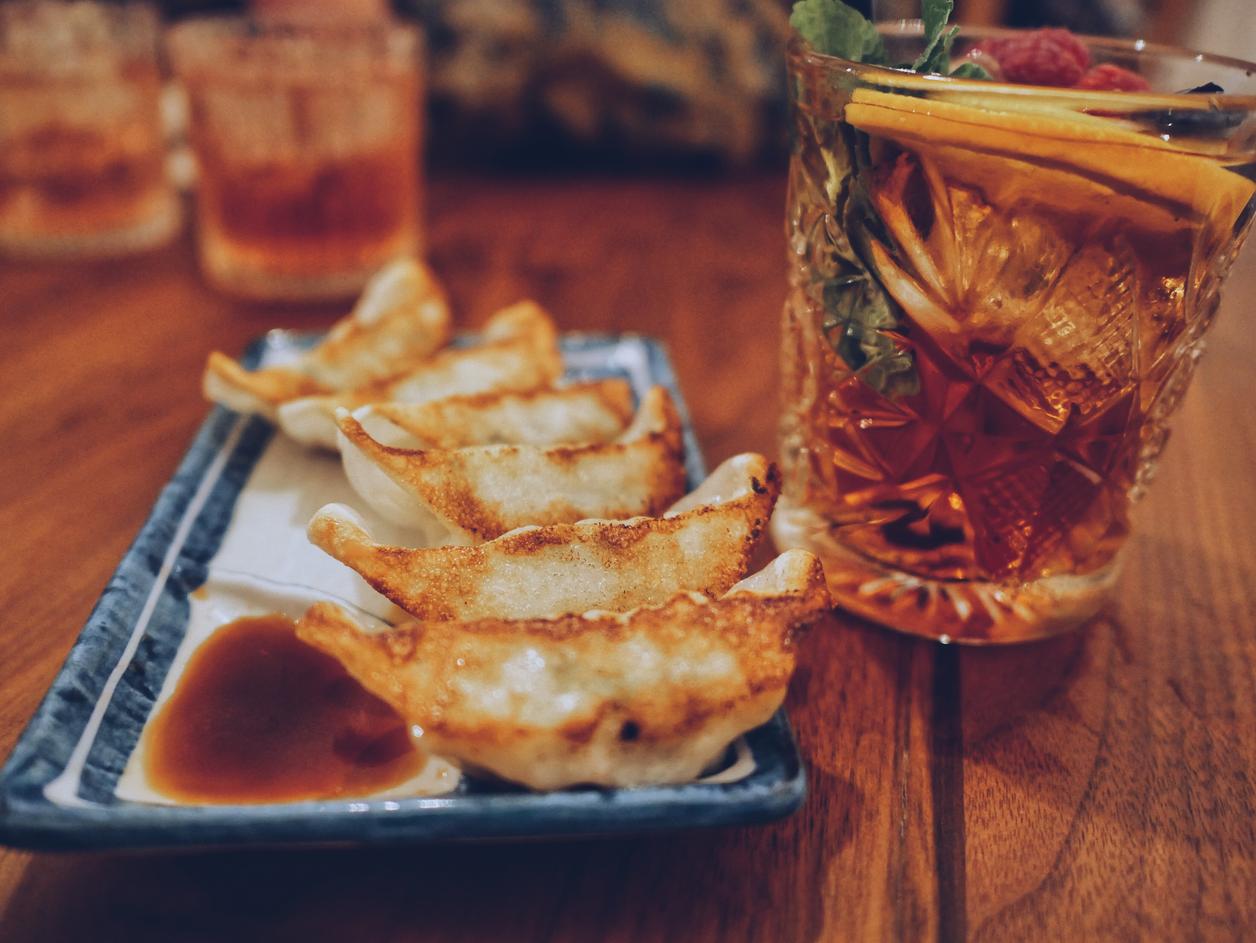
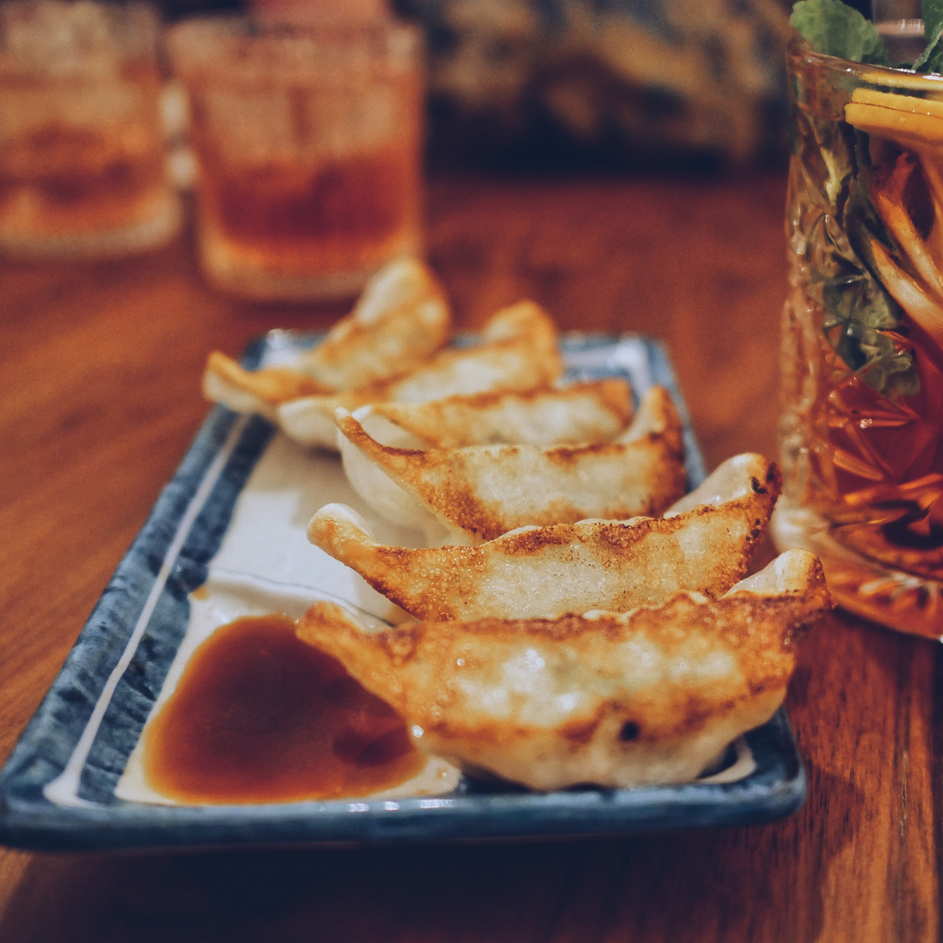
PP

diff --git a/ProyectoPersonal/indexpp.html b/ProyectoPersonal/indexpp.html
@@ -68,36 +68,41 @@
     <main>
         <!-- EL NAVEGADOR SE TIENE QUE FUSIONAR CON EL CARROUSEL Y CUANDO SCROLLEAS HACÍA ABAJO YA SE DESPEGA -->
         <!-- Galería de imágenes CARRUSEL DE IMAGENES DE FONDO -->
-        <div class="carrousel">
-            
-            <ol class="listaImagenes">
-                
-                <li><img src="img/ArrozConCarne.jpg"></li>
-                <li><img src="img/BrochetaDeLangostinosyArroz.jpg"></li>
-                <li><img src="img/BurritoPollo.jpg"></li>
-                <li><img src="img/CaliforniaRoll.jpg"></li>
-                <li><img src="img/CarneAlaBrasa.jpg"></li>
-                <li><img src="img/CevicheMixto.jpg"></li>
-                <li><img src="img/Cocinero.jpg"></li>
-                <li><img src="img/GyozaFrita.jpg"></li>
-                <li><img src="img/MakideSalmon.jpg"></li>
-                <li><img src="img/Mesa.jpg"></li>
-                <li><img src="img/MesaConComida.jpg"></li>
-                <li><img src="img/MesaConGente.jpg"></li>
-                <li><img src="img/Nachos.jpg"></li>
-                <li> <img src="img/PadThaiMarisco.jpg"></li>
-                <li><img src="img/PadThaiTernera.jpg"></li>
-                <li><img src="img/PescadoAlaBrasa.jpg"></li>
-                <li><img src="img/PlatanoFrito.jpg"></li>
-                <li><img src="img/RamenDeCarne.jpg"></li>
-                <li><img src="img/Restaurante.jpg"></li>
-                <li><img src="img/RollitosdePrimavera.jpg"></li>
-                <li> <img src="img/TacosConFrijoles.jpg"></li>
-                <li>  <img src="img/TacosdeTernera.jpg"></li>
-    
-            </ol>
-            
+        <div class= "contenedorSlider">
+
+            <div class="sliderIzquierdo">
+
+                <svg xmlns="http://www.w3.org/2000/svg" class="icon icon-tabler icon-tabler-chevron-left" width="24"
+                    height="24" viewBox="0 0 24 24" stroke-width="2" stroke="currentColor" fill="none"
+                    stroke-linecap="round" stroke-linejoin="round">
+                    <path stroke="none" d="M0 0h24v24H0z" fill="none"></path>
+                    <path d="M15 6l-6 6l6 6"></path>
+                </svg>
+
+            </div>
+
+            <div class="sliderScreen">
+
+                <img name="imagen">
+
+            </div>
+
+            <div class="sliderDerecho">
+
+                <svg xmlns="http://www.w3.org/2000/svg" class="icon icon-tabler icon-tabler-chevron-right" width="24" height="24" viewBox="0 0 24 24" stroke-width="2" stroke="currentColor" fill="none" stroke-linecap="round" stroke-linejoin="round">
+                    <path stroke="none" d="M0 0h24v24H0z" fill="none"></path>
+                    <path d="M9 6l6 6l-6 6"></path>
+                 </svg>
+
+            </div>
+
         </div>
+
+
+
+
+
+
 
         <!-- BREVE TEXTO MISION Y VISION DEL RESTAURANTE, NUESTRO COMPROMISO EJ ECOLOGICO, CARTA VEGANA,  -->
         <h2></h2>
@@ -126,7 +131,7 @@
     <!-- EVENTOS Y SHOWS (OPCIONAL) -->
 
     <section>
-        
+
     </section>
 
 
@@ -136,17 +141,25 @@
         <div class="contenedorSlider">
             <!-- IMAGEN DE FLECHA DERECHA -->
             <div class="sliderDerecho">
-                <svg xmlns="http://www.w3.org/2000/svg" class="icon icon-tabler icon-tabler-arrow-big-right" width="50" height="50" viewBox="0 0 24 24" stroke-width="2" stroke="currentColor" fill="none" stroke-linecap="round" stroke-linejoin="round">
+                <svg xmlns="http://www.w3.org/2000/svg" class="icon icon-tabler icon-tabler-arrow-big-right" width="50"
+                    height="50" viewBox="0 0 24 24" stroke-width="2" stroke="currentColor" fill="none"
+                    stroke-linecap="round" stroke-linejoin="round">
                     <path stroke="none" d="M0 0h24v24H0z" fill="none"></path>
-                    <path d="M4 9h8v-3.586a1 1 0 0 1 1.707 -.707l6.586 6.586a1 1 0 0 1 0 1.414l-6.586 6.586a1 1 0 0 1 -1.707 -.707v-3.586h-8a1 1 0 0 1 -1 -1v-4a1 1 0 0 1 1 -1z"></path>
-                 </svg>
+                    <path
+                        d="M4 9h8v-3.586a1 1 0 0 1 1.707 -.707l6.586 6.586a1 1 0 0 1 0 1.414l-6.586 6.586a1 1 0 0 1 -1.707 -.707v-3.586h-8a1 1 0 0 1 -1 -1v-4a1 1 0 0 1 1 -1z">
+                    </path>
+                </svg>
             </div>
             <!-- IMAGEN DE FLECHA IZQUIERDA -->
             <div class="sliderIzquierdo">
-                <svg xmlns="http://www.w3.org/2000/svg" class="icon icon-tabler icon-tabler-arrow-big-left" width="50" height="50" viewBox="0 0 24 24" stroke-width="2" stroke="currentColor" fill="none" stroke-linecap="round" stroke-linejoin="round">
+                <svg xmlns="http://www.w3.org/2000/svg" class="icon icon-tabler icon-tabler-arrow-big-left" width="50"
+                    height="50" viewBox="0 0 24 24" stroke-width="2" stroke="currentColor" fill="none"
+                    stroke-linecap="round" stroke-linejoin="round">
                     <path stroke="none" d="M0 0h24v24H0z" fill="none"></path>
-                    <path d="M20 15h-8v3.586a1 1 0 0 1 -1.707 .707l-6.586 -6.586a1 1 0 0 1 0 -1.414l6.586 -6.586a1 1 0 0 1 1.707 .707v3.586h8a1 1 0 0 1 1 1v4a1 1 0 0 1 -1 1z"></path>
-                 </svg>
+                    <path
+                        d="M20 15h-8v3.586a1 1 0 0 1 -1.707 .707l-6.586 -6.586a1 1 0 0 1 0 -1.414l6.586 -6.586a1 1 0 0 1 1.707 .707v3.586h8a1 1 0 0 1 1 1v4a1 1 0 0 1 -1 1z">
+                    </path>
+                </svg>
             </div>
             <div class="sliderR1">
                 <div class="resenas">
@@ -154,26 +167,33 @@
                         <div class="imgresena1">
 
                         </div>
-                        <h2>En Kokoro Latino se combinan con maestría los sabores asiáticos y latinoamericanos. Cada plato es
-                            una obra maestra de la fusión gastronómica, ofreciendo una experiencia única y deliciosa. Desde su
-                            ambiente acogedor hasta su sorprendente menú, Kokoro Latino es una parada obligatoria para los
-                            amantes de la comida auténtica y creativa. ¡Prepárate para un viaje culinario inolvidable!</h2>
+                        <h2>En Kokoro Latino se combinan con maestría los sabores asiáticos y latinoamericanos. Cada
+                            plato es
+                            una obra maestra de la fusión gastronómica, ofreciendo una experiencia única y deliciosa.
+                            Desde su
+                            ambiente acogedor hasta su sorprendente menú, Kokoro Latino es una parada obligatoria para
+                            los
+                            amantes de la comida auténtica y creativa. ¡Prepárate para un viaje culinario inolvidable!
+                        </h2>
                     </div>
                 </div>
                 <div class="resena2">
                     <div class="imgresena2">
 
                     </div>
-                    <h2>Kokoro Latino es un verdadero rincón de maravillas gastronómicas. El ambiente acogedor y el servicio
+                    <h2>Kokoro Latino es un verdadero rincón de maravillas gastronómicas. El ambiente acogedor y el
+                        servicio
                         amable hacen que este restaurante sea perfecto para una noche memorable.</h2>
                 </div>
                 <div class="resena3">
                     <div class="imgresena3">
 
                     </div>
-                    <h2>En Kokoro Latino, desde los rolls de sushi con un toque latino hasta los platos de ceviche con un
+                    <h2>En Kokoro Latino, desde los rolls de sushi con un toque latino hasta los platos de ceviche con
+                        un
                         giro asiático, cada bocado es una deliciosa sorpresa. La decoración moderna y el servicio atento
-                        completan la experiencia. Si estás en busca de una aventura culinaria que despierte tus sentidos,
+                        completan la experiencia. Si estás en busca de una aventura culinaria que despierte tus
+                        sentidos,
                         Kokoro Latino es el lugar ideal para satisfacer tu apetito por la creatividad culinaria.</h2>
                 </div>
                 <div class="resena4">
@@ -181,9 +201,12 @@
 
                     </div>
                     <h2>Kokoro Latino es un verdadero oasis de sabores que te sumerge en un mundo culinario donde Asia y
-                        Latinoamérica se abrazan. Cada plato es una obra maestra de la fusión, presentando combinaciones de
-                        ingredientes que te sorprenderán gratamente. La decoración elegante y el ambiente acogedor hacen que
-                        este lugar sea perfecto para cualquier ocasión, desde cenas románticas hasta reuniones familiares
+                        Latinoamérica se abrazan. Cada plato es una obra maestra de la fusión, presentando combinaciones
+                        de
+                        ingredientes que te sorprenderán gratamente. La decoración elegante y el ambiente acogedor hacen
+                        que
+                        este lugar sea perfecto para cualquier ocasión, desde cenas románticas hasta reuniones
+                        familiares
                     </h2>
                 </div>
             </div>

diff --git a/ProyectoPersonal/Apartado-Carta/carta.html b/ProyectoPersonal/Apartado-Carta/carta.html
@@ -36,19 +36,23 @@
 
     <header>
         <div class="navegador">
+
+
+            <!-- LOGO (QUE NOS RECARGUE LA PAGINA)¿PODEMOS HACER QUE SOBRESALGA UN POCO DEL HEADER PARA QUE SE VEA MEJOR? -->
+            <div>
+                <a href="http://127.0.0.1:5500/ProyectoPersonal/indexpp.html"><img src="../img/logo-removebg-preview.png"alt="logo_kokoro_latino"></a>
+            </div>
+
             <!-- CARTA (QUE DIRIJA A OTRA PAGINA) -->
             <div class="carta">
                 <a href="http://127.0.0.1:5500/ProyectoPersonal/Apartado-Carta/carta.html">Carta</a>
                 <a href="#contacto">Contacto</a>
-                <!--ANCLA PARA SCROLLEAR HACIA ABAJO ¡¡AÑADIR TRANSICIÓN SMOOTH!!-->
-                <!-- HORARIOS Y LOCALIZACIONES (QUE DIRIJA A LA PARTE INFERIOR DE LA PAGINA AL FOOTER) -->
             </div>
-            <div>
-                <!-- LOGO (QUE NOS RECARGUE LA PAGINA)¿PODEMOS HACER QUE SOBRESALGA UN POCO DEL HEADER PARA QUE SE VEA MEJOR? -->
-                <a href="http://127.0.0.1:5500/ProyectoPersonal/indexpp.html"><img src="../img/logo-removebg-preview.png"
-                        alt="logo_kokoro_latino"></a>
-            </div>
+            
             <!--ANCLA PARA SCROLLEAR HACIA ABAJO ¡¡AÑADIR TRANSICIÓN SMOOTH!!-->
+
+
+
             <!-- CONTACTO (QUE DIRIJA A LA PARTE INFERIOR DE LA PAGINA) -->
 
             <div class="horario">
@@ -58,6 +62,7 @@
             </div>
 
             <!-- APARTADO PARA INICIAR SESION Y REGISTRARSE  -->
+
                 <div class="iniciarSesion">
                     <a href="#"
                         class="login">
@@ -65,7 +70,7 @@
                     </a>
                 </div>
 
-                <div class = "Registrarse">
+                <div class = "registrarse">
                    <a href="https://exp014_20_ed_lote5.iformalia.es/Publico/Portal/htmls/AdeccoRedEs/LoginEmpresa.aspx"
                     class="login">
                     Registrarse
@@ -81,6 +86,79 @@
 
 <!-- CREAR UNA SECCION DONDE CONTENGA CATEGORIAS DEL LADO IZQUIERDO Y QUE MUESTRE POR CATEGORIAS LA CARTA. DEL LADO DERECHO QUE MUESTRE LA CARTA Y DENTRO DE DIVS LOS PLATOS PARA HACERLO TIPO TIENDA -->
 
+<section>
+    <!-- AQUI MOSTRAR UN APARTADO DE BUSQUEDA O BUSCAR POR NOMBRE LOS PRODUCTOS -->
+
+
+
+    <!-- LISTA DE PLATOS ORDENADO POR CATEGORIAS  -->
+    <div class="categorias">
+        <h2>categorias:</h2>
+        <a>arrozes:</a>
+         <a>arroz a la criolla</a>
+         <a>brochetas de langostinos</a>
+         <a>makide salmon</a>
+         <a>ramen de carne</a>
+        <a>pollo:</a>
+         <a>burritos de pollo</a>
+         <a>tacos de ternera</a>
+        <a>carne:</a>
+         <a>carne a la brasa</a>
+         <a>pescado a la brasa</a>
+        <a>mariscos:</a>
+         <a>ceviche mixto</a>
+         <a>pad thai de marisco</a>
+        <a>vegetales y frijoles:</a>
+         <a>ensalada asiática</a>
+         <a>gyoza frita</a>
+         <a>nachos</a>
+         <a>rollitos de primavera</a>
+         <a>tacos con frijoles</a>
+         <a>plátano frito</a>
+        <a>sushi:</a>
+         <a>California Roll</a>   
+    </div>
+
+    <!-- LA CARTA Y DENTRO DE DIVS LOS PLATOS PARA HACERLO TIPO TIENDA  -->
+
+    <div>
+
+
+        <div>
+            <h2>arrozes:</h2>
+            <div>
+                <img src="ArrozConCarne.jpg" alt="">
+                <h3>arroz a la criolla</h3>
+                <h4>el arroz con carne es un plato satisfactorio que combina los sabores de la carne, las verduras y el arroz en una comida completa. el componente principal es el arroz. Puede ser arroz blanco, arroz integral, arroz jazmín o cualquier otro tipo de arroz, según la preferencia. Las opciones de carne cerdo, pollo, cordero.</h4>
+                <a href="#">añadir</a>
+            </div>
+
+        </div>
+
+
+        <div>
+            <h2>pollo:</h2>
+            <div>
+                <img src="" alt="">
+                <h3>burritos de pollo</h3>
+                <h4>es una deliciosa combinación de sabores, desde la ternura del pollo
+                    sazonado hasta la frescura de las verduras y la cremosidad de los frijoles y el queso.
+                    Puedes personalizarlo según tus preferencias, haciendo que sea suave o picante.</h4>
+                <a href="">añadir</a>
+            </div>
+        </div>
+
+
+
+
+
+
+
+
+
+    </div>
+
+</section>
 
 <!-- CATEGORIAS:
 Arrozes:

diff --git a/ProyectoPersonal/jspp.js b/ProyectoPersonal/jspp.js
@@ -1,0 +1,28 @@
+
+let imagenes=[
+
+"/ProyectoPersonal/img/ArrozConCarne.jpg",
+"ProyectoPersonal/img/BrochetaDeLangostinosyArroz.jpg",
+"ProyectoPersonal/img/BurritoPollo.jpg",
+"ProyectoPersonal/img/CaliforniaRoll.jpg",
+"ProyectoPersonal/img/CarneAlaBrasa.jpg",
+"ProyectoPersonal/img/CevicheMixto.jpg",
+"ProyectoPersonal/img/Cocinero.jpg",
+"ProyectoPersonal/img/EnsaladaAsiatica.jpg",
+"ProyectoPersonal/img/GyozaFrita.jpg",
+"ProyectoPersonal/img/MakideSalmon.jpg",
+"ProyectoPersonal/img/Mesa.jpg",
+"ProyectoPersonal/img/MesaConComida.jpg",
+"ProyectoPersonal/img/MesaConGente.jpg",
+"ProyectoPersonal/img/Nachos.jpg",
+"ProyectoPersonal/img/PadThaiMarisco.jpg",
+"ProyectoPersonal/img/PadThaiTernera.jpg",
+"ProyectoPersonal/img/PescadoAlaBrasa.jpg",
+"ProyectoPersonal/img/PlatanoFrito.jpg",
+"ProyectoPersonal/img/RamenDeCarne.jpg",
+"ProyectoPersonal/img/RollitosdePrimavera.jpg",
+"ProyectoPersonal/img/TacosConFrijoles.jpg",
+"ProyectoPersonal/img/TacosdeTernera.jpg"
+
+
+]

diff --git a/ProyectoPersonal/css/stylepp.css b/ProyectoPersonal/css/stylepp.css
@@ -78,27 +78,36 @@ body{
 
 
 /* ESTILO DEL CARROUSEL DE IMAGENES ¡¡MAIN!! */
-.carrousel {
-    width: 100%;
-    overflow: hidden; 
-}
 
-.listaImagenes {
-    list-style: none;
-    width: 100%;
+
+.contenedorSlider{
     display: flex;
-    transition: transform 0.5s ease-in-out;
-}
-.listaimagenes li {
-    flex: 0 0 100%;
+    align-items: center;
+    gap:40px;
+    
 }
 
-.listaImagenes img {
+.sliderIzquierdo, .sliderDerecho{
+    width: 5%;
+}
+
+.sliderIzquierdo svg, .sliderDerecho svg {
     width: 100%;
-    width: 500px;
-    height: 500px;
 
 }
+
+.sliderScreen{
+    width: 90%;
+}
+
+.sliderScreen img{
+    width: 100%;
+}
+
+
+
+
+
 
 
 /* ESTILO APARTADO BOTONES CARTA */
